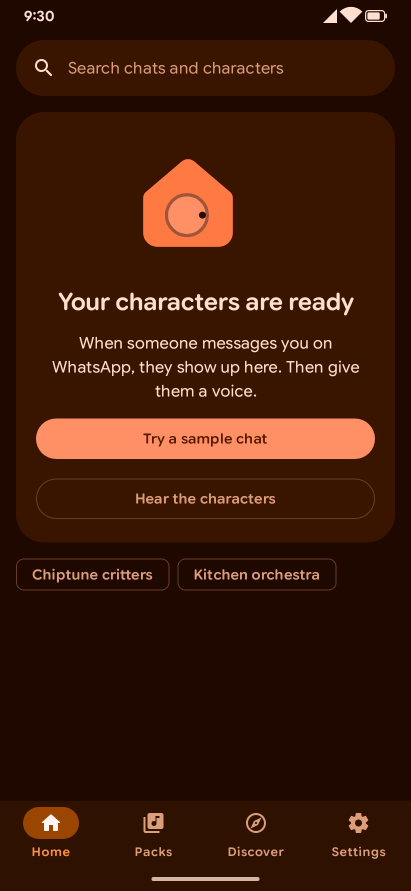
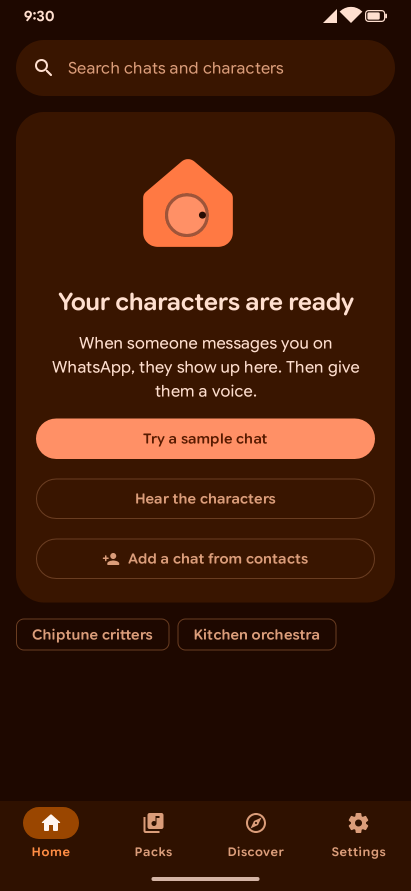
test(contacts): goldens after merging main; the Home golden is home-from-contacts

Changed region(s): [[0.0292, 0.5758, 0.9635, 0.7273]]

diff --git a/android/app/src/main/kotlin/app/mauri/cucuto/home/JourneyCards.kt b/android/app/src/main/kotlin/app/mauri/cucuto/home/JourneyCards.kt
@@ -63,12 +63,25 @@ internal fun JourneyCard(
     onTrySampleChat: () -> Unit = {},
 ) {
     when (step) {
-        JourneyStep.None -> Unit
-        JourneyStep.ImportPacks -> ImportPacksCard(onGetDemoPacks, onImportDemoPacks, onRestoreBackup, modifier)
-        JourneyStep.WaitForMessages ->
+        JourneyStep.None -> {
+            Unit
+        }
+
+        JourneyStep.ImportPacks -> {
+            ImportPacksCard(onGetDemoPacks, onImportDemoPacks, onRestoreBackup, modifier)
+        }
+
+        JourneyStep.WaitForMessages -> {
             WaitForMessagesCard(onTrySampleChat, onPreviewCharacters, onAddFromContacts, modifier)
-        is JourneyStep.GiveFirstVoice -> GiveFirstVoiceCard(step.chat, onOpen = { onOpenChat(step.chat.key) }, modifier)
-        is JourneyStep.FirstVoice -> FirstVoiceCard(step.chat, onDismissCelebration, modifier)
+        }
+
+        is JourneyStep.GiveFirstVoice -> {
+            GiveFirstVoiceCard(step.chat, onOpen = { onOpenChat(step.chat.key) }, modifier)
+        }
+
+        is JourneyStep.FirstVoice -> {
+            FirstVoiceCard(step.chat, onDismissCelebration, modifier)
+        }
     }
 }
 

diff --git a/android/app/src/main/kotlin/app/mauri/cucuto/navigation/CucutoEntries.kt b/android/app/src/main/kotlin/app/mauri/cucuto/navigation/CucutoEntries.kt
@@ -13,9 +13,9 @@ import app.mauri.cucuto.packs.ui.PackDetailScreen
 import app.mauri.cucuto.packs.ui.PacksImportReview
 import app.mauri.cucuto.packs.ui.PacksScreen
 import app.mauri.cucuto.picker.PickerScreen
+import app.mauri.cucuto.sample.SampleChatScreen
 import app.mauri.cucuto.ui.contacts.AddFromContactsScreen
 import app.mauri.cucuto.ui.contacts.ConfirmLinkScreen
-import app.mauri.cucuto.sample.SampleChatScreen
 import app.mauri.cucuto.ui.creator.CreatorFinishScreen
 import app.mauri.cucuto.ui.creator.CreatorScreen
 import app.mauri.cucuto.ui.developer.DeveloperScreen

diff --git a/docs/decisions/0065-chats-before-they-message.md b/docs/decisions/0065-chats-before-they-message.md
@@ -94,8 +94,8 @@ Filled in when it was built. These are defaults the owner may override on #309.
 
 "Add a chat from contacts" appears where someone looks for a person who is not there yet:
 
-- **Home, with packs and no chats:** the journey card "Your characters are ready" offers it next to "Hear the
-  characters", and the plain empty state (shown once the journey is over) has it too.
+- **Home, with packs and no chats:** the journey card "Your characters are ready" offers it below "Try a sample
+  chat" (ADR 0075) and "Hear the characters", and the plain empty state (shown once the journey is over) has it too.
 - **"Who gets a voice?"**, the chat picker behind Home's "Assign a voice" button: a row at the top of the list, and
   a button in its empty state.
 
